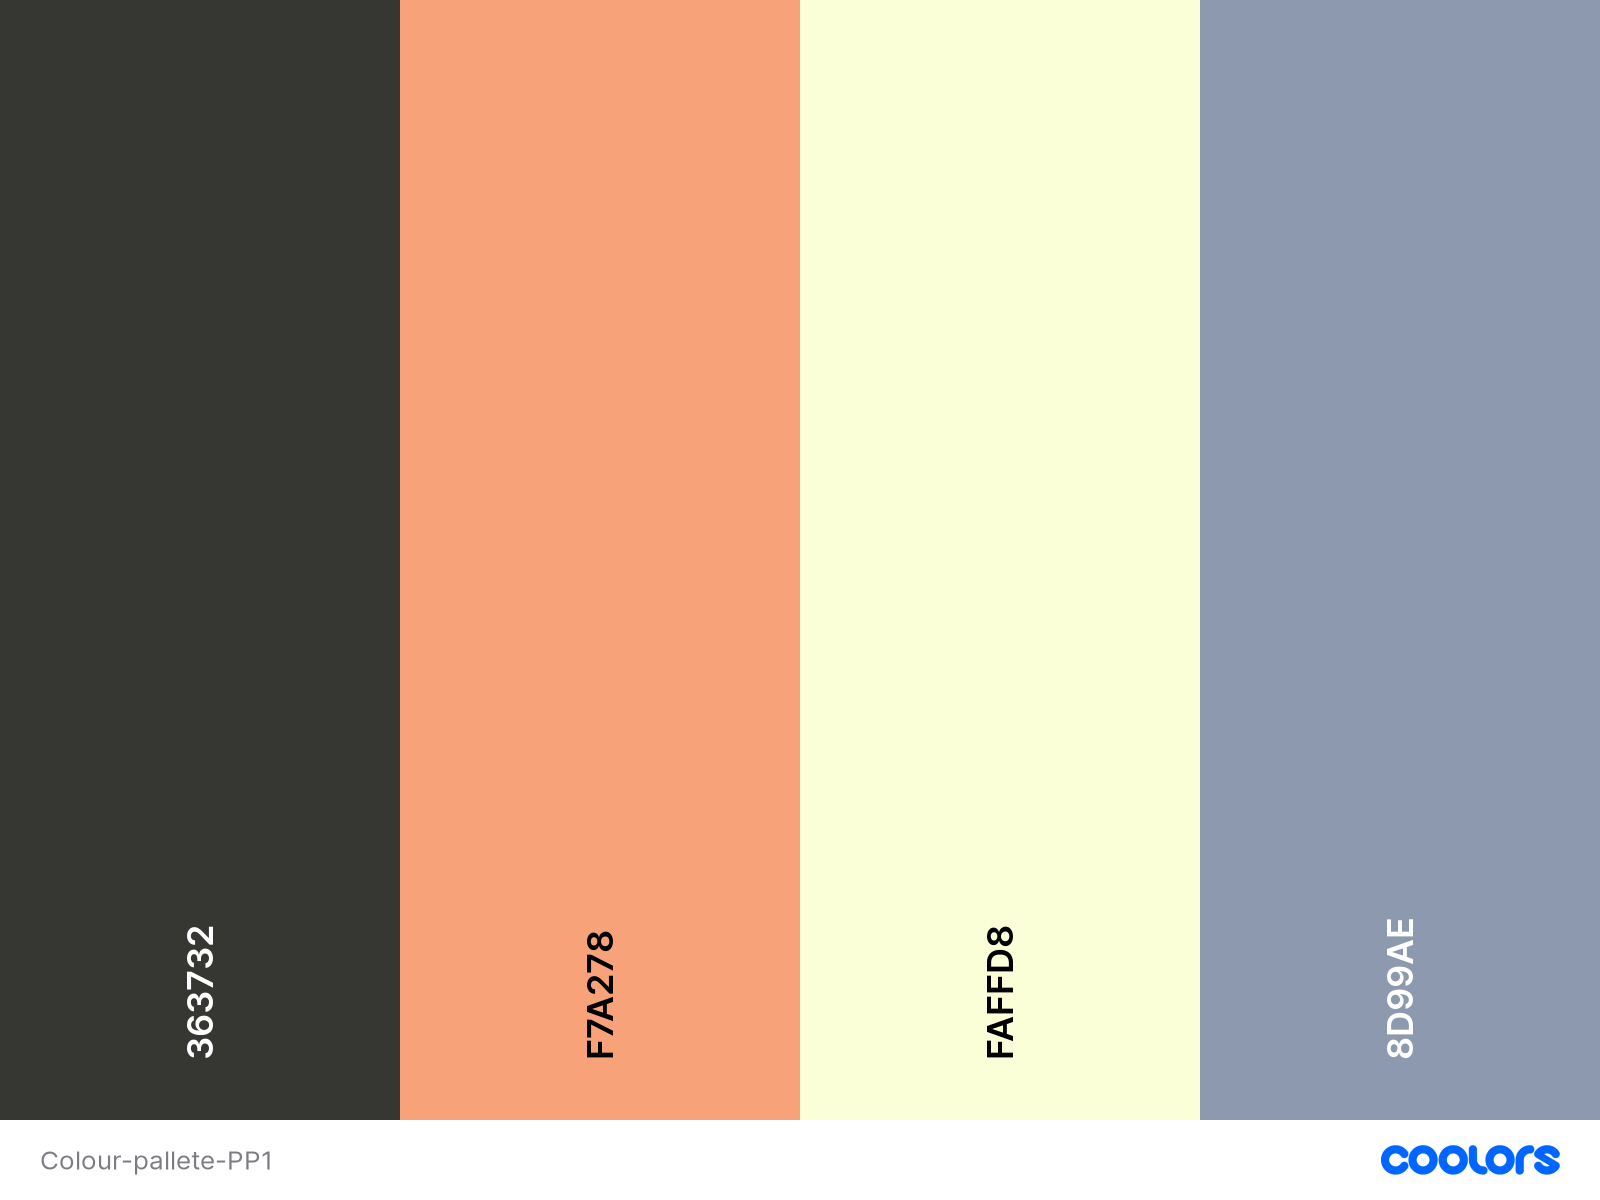
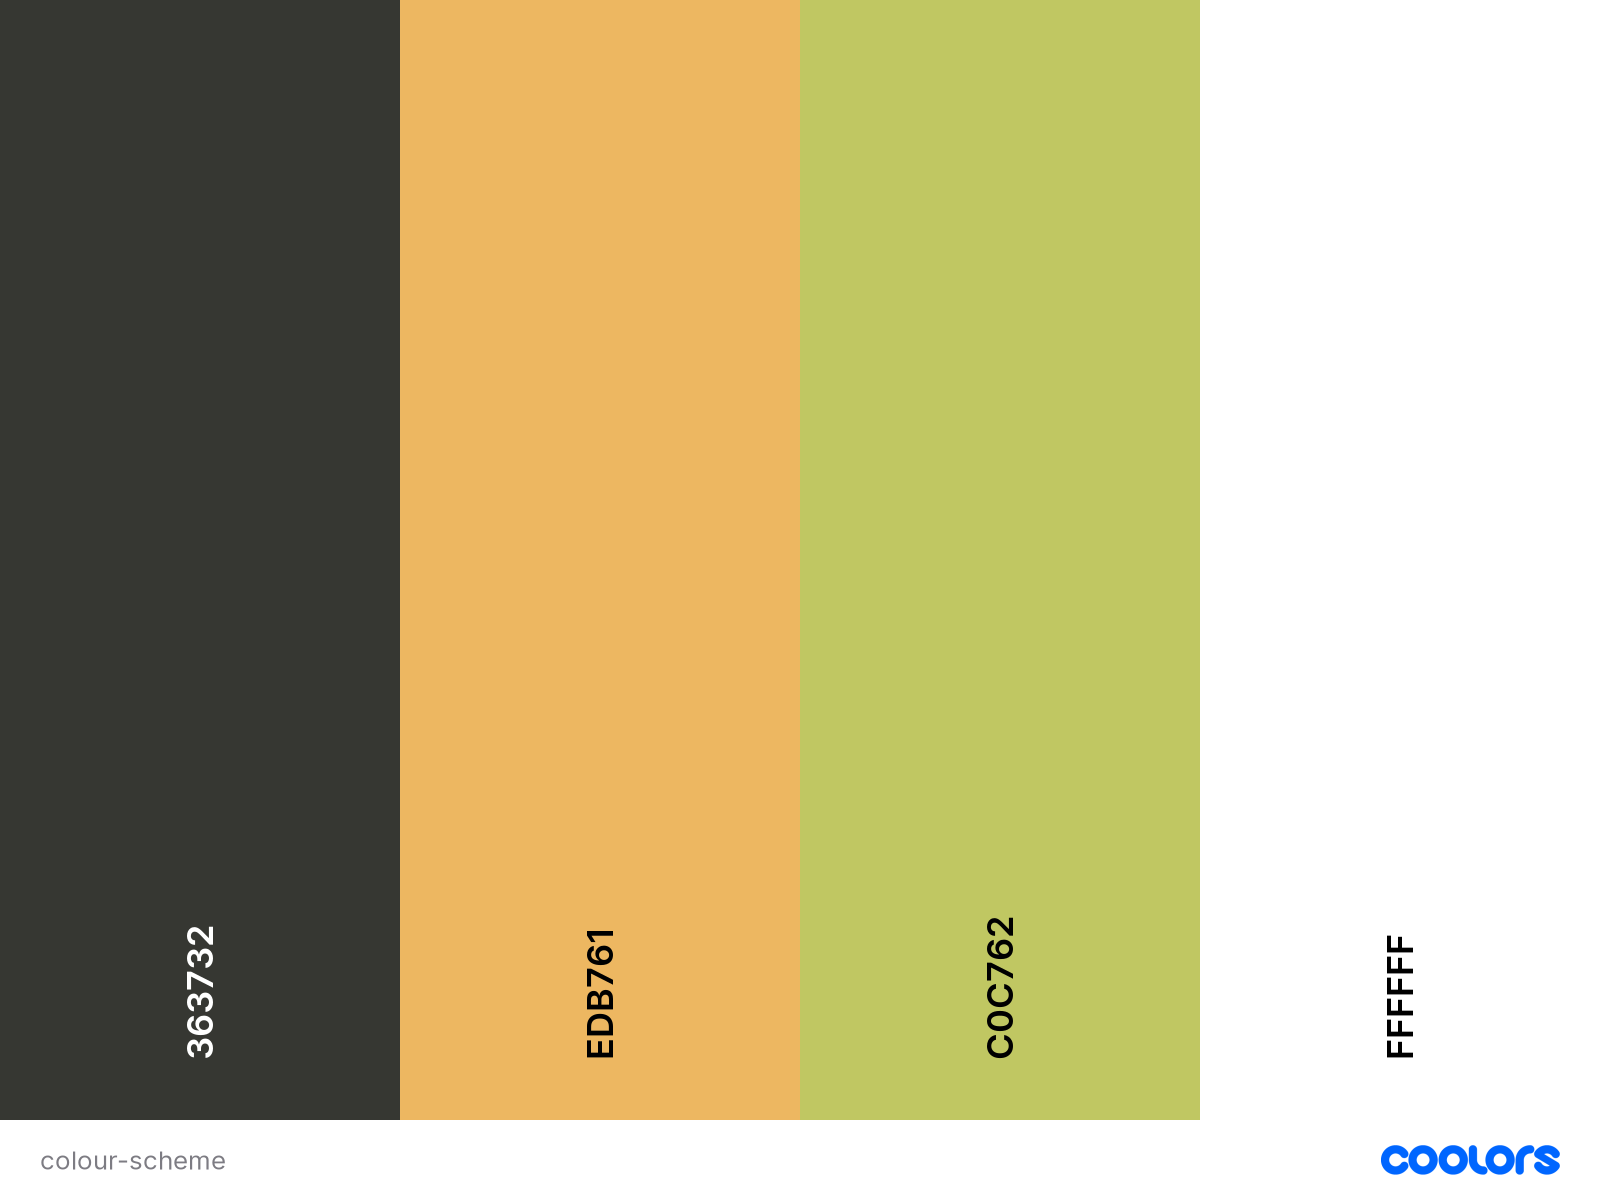
update colour records on readme file

diff --git a/README.md b/README.md
@@ -50,16 +50,16 @@ For the social media links, all icons was attained using [Fontawesome](https://f
 
 Header and navigational elements uses the Roboto medium 500 font and paragraph elements use the Roboto thin 300. Both the sizes of Roboto are complimentary to each other whilst still being able to see a clear difference between them. 
 ### Colour Scheme
-![Colour Pallet](assets/images/colour-pallete-pp1.png)
+![Colour Pallet](docs/screenshot/colour-pallete-pp1.png "Colour Pallet")
 
 The above image shows the colour scheme that has been decided for the website. I have used [Coolers](https://coolors.co/) to help me pick my pallet and the reason these colours have been selected is to represent and match the colour scheme of the team kit. 
 
 | Colour  | Use |
 | ------  | --- |
 | #363732 | This colour will be used for the text and border colour for images. |
-| #F7A278 | This Colour will be used for styling of the contact form. |
-| #FAFFD8 | This colour will be used for the background and as contrasting text colour. |
-| #8D99AE | This colour will be used for the header, navigation and footer. |
+| #C0C762 | This Colour will be used for styling of the about us section. |
+| #FFFFFF | This colour will be used for the background for some sections |
+| #EDB761| This colour will be used for the header, navigation and footer. |
 
 ### Logo
 The logo was created using [Photopea](https://www.photopea.com/ "Photopea"). I was able to create a simple and eyecatching logo. The logo also uses the Roboto Font for consistency, it is also coloured in #363732 to match the theme of the website. Furthermore, this logo will be present in all pages in the website in the header. 
